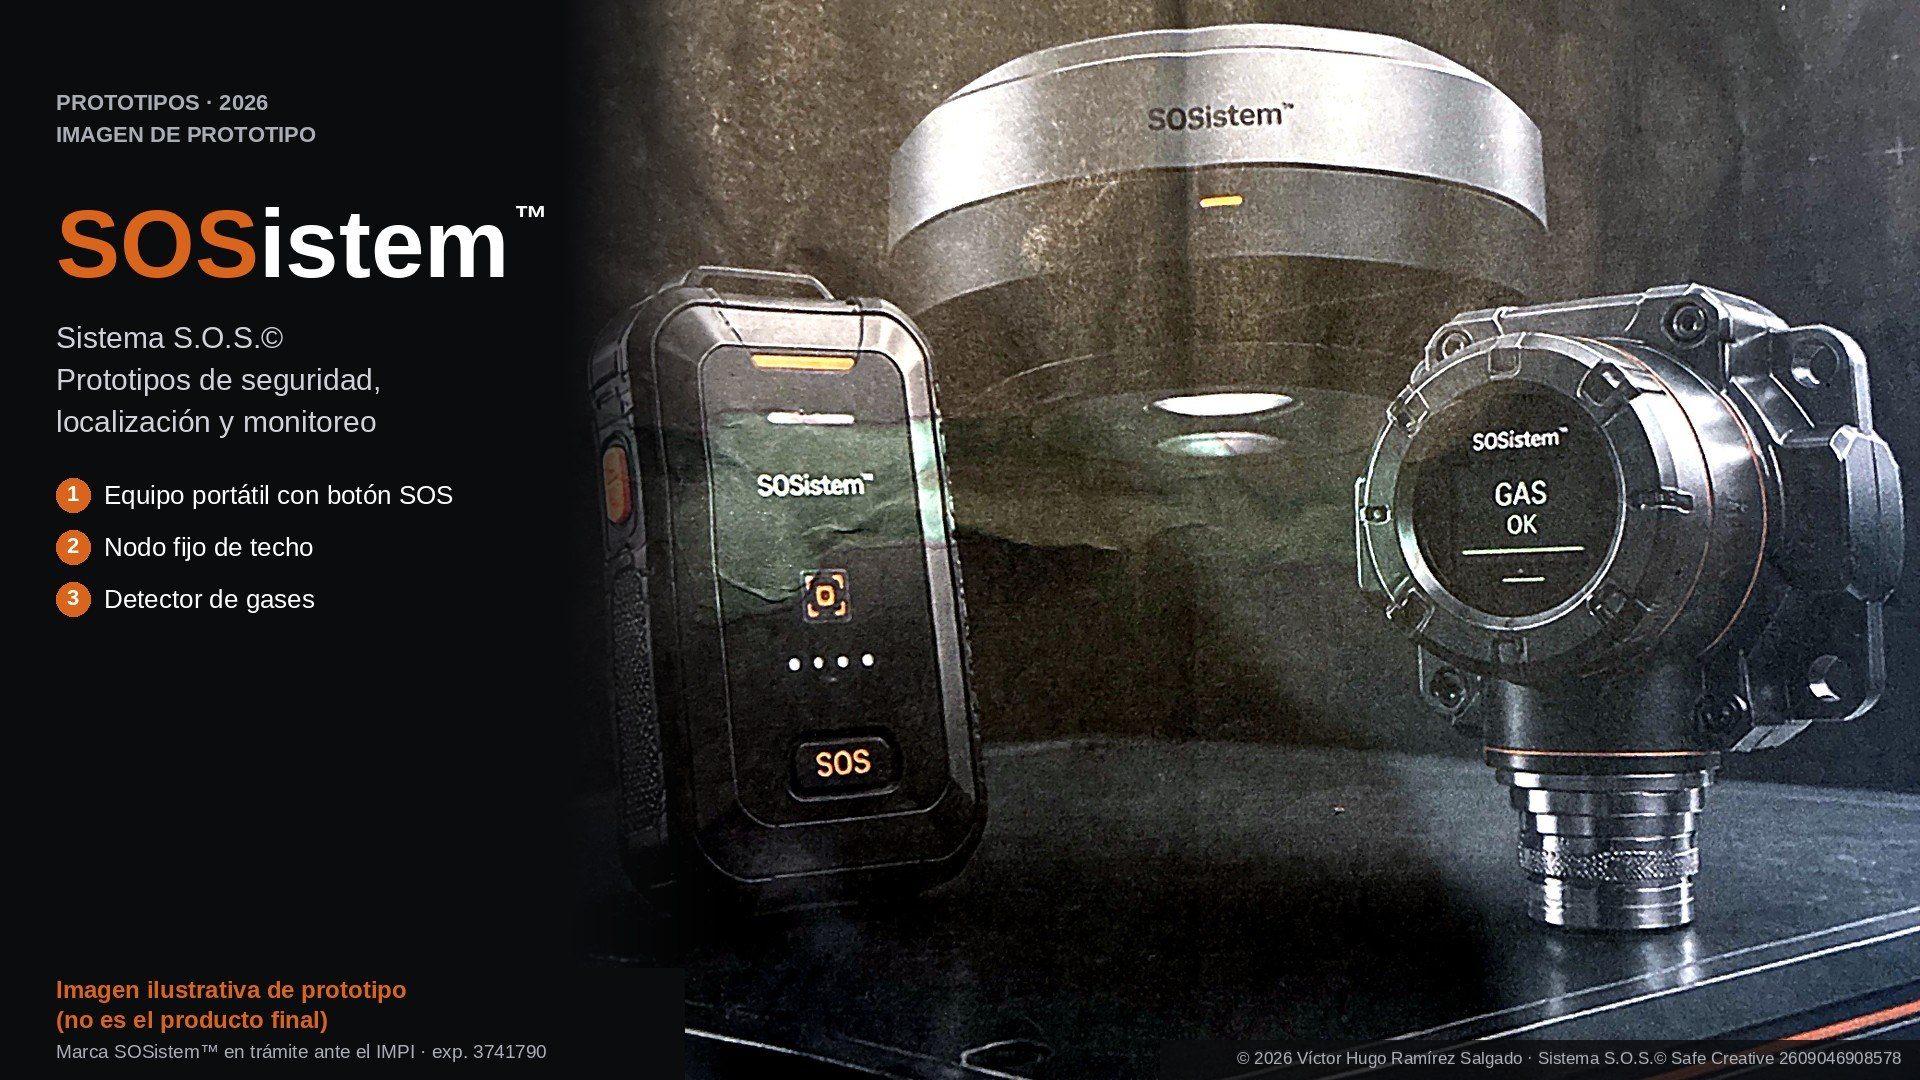
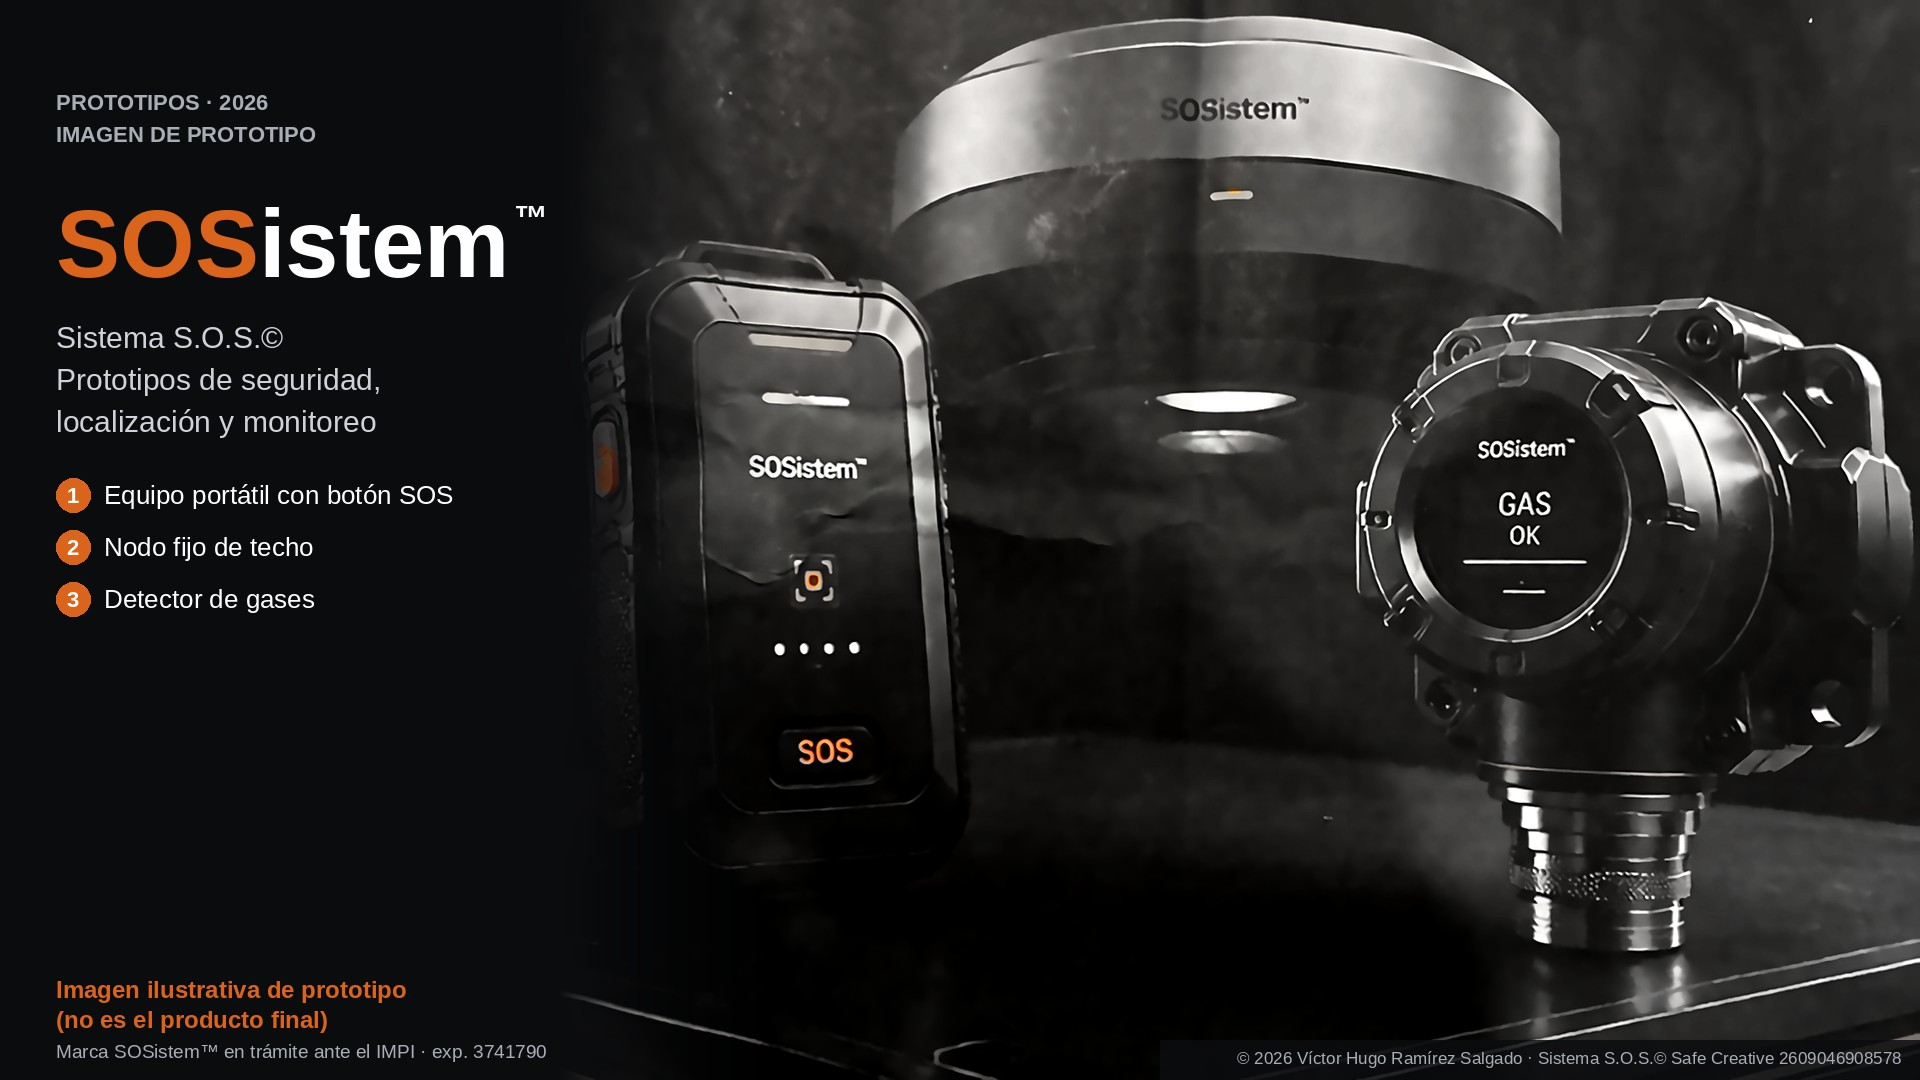
Sensor SOSistem™: foto mejorada (enderezada, sin textura de papel, negros limpios y acentos naranja); la anterior queda como v1
Asistencia-IA

diff --git a/obras.js b/obras.js
@@ -78,7 +78,7 @@ const LOGO={'ContenedorEns©':'cont','Arsa Bodegas©':'arsa','Intertopía©':'in
 const RAIZ=(document.currentScript&&document.currentScript.src.includes('/propuesta/'))?'../':'';
 P.forEach(p=>{const l=LOGO[p[1]];if(l)I['logo-'+l]=`<span class="logo-c"><img class="logo-obra" src="${RAIZ}logos/${l}.svg" alt="Logotipo de ${p[1]}" loading="lazy"><sup>${p[1].includes('™')?'™':'©'}</sup></span>`,p[3]='logo-'+l});
 // Imagen real de lo que se ve en cada obra (fotos de Arsa Bodegas©, capturas de las herramientas y figuras de SOSistem™)
-const FOTO={'ContenedorEns©':['contenedorens.jpg','Contenedor marítimo abierto',1],'Arsa Bodegas©':['arsa.jpg','Hilera de mini bodegas en contenedores, El Sauzal',1],'Trazabilidad de contenedores©':['trazabilidad.svg','Mapa: un contenedor sale de Ensenada por mar a Long Beach y regresa por la frontera; cada salida resta 1 y cada entrada suma 1 al país'],'Intertopía©':['intertopia-concepto.jpg','Intertopía: definición propuesta a la Real Academia Española'],'1ntertopía©':['1ntertopia-valor.jpg','Gráfica del valor intertópico'],'Econotopía©':['econotopia.svg','Desarrollo del Cubo con la familia de obras'],'Cubo 33©':['cubo33.jpg','Cara del Cubo A–Z de 26 × 26: letras en los bordes y números en las casillas'],'Cubo de Aprendizaje©':['aprende.svg','Cubo de Aprendizaje: aprende, consulta, imprime y archivos en 22 idiomas'],'Código Cúbico©':['codigo.jpg','Mensaje convertido en Código Cúbico'],'Mensajero del Cubo':['mensajero.jpg','Mensajero del Cubo: enviar y recibir'],'Cubo Interior©':['interior.svg','Desarrollo interior del Cubo'],'SOSistem™':['sosistem.jpg','SOSistem™: cada segundo cuenta. Industria, espacios confinados, familias y sanitarios'],'Sensor SOSistem™':['sensor-prototipos-foto.jpg','Imagen ilustrativa de prototipo: equipo portátil con botón SOS, nodo fijo de techo y detector de gases SOSistem™. Marca SOSistem™ en trámite ante el IMPI, expediente 3741790']};
+const FOTO={'ContenedorEns©':['contenedorens.jpg','Contenedor marítimo abierto',1],'Arsa Bodegas©':['arsa.jpg','Hilera de mini bodegas en contenedores, El Sauzal',1],'Trazabilidad de contenedores©':['trazabilidad.svg','Mapa: un contenedor sale de Ensenada por mar a Long Beach y regresa por la frontera; cada salida resta 1 y cada entrada suma 1 al país'],'Intertopía©':['intertopia-concepto.jpg','Intertopía: definición propuesta a la Real Academia Española'],'1ntertopía©':['1ntertopia-valor.jpg','Gráfica del valor intertópico'],'Econotopía©':['econotopia.svg','Desarrollo del Cubo con la familia de obras'],'Cubo 33©':['cubo33.jpg','Cara del Cubo A–Z de 26 × 26: letras en los bordes y números en las casillas'],'Cubo de Aprendizaje©':['aprende.svg','Cubo de Aprendizaje: aprende, consulta, imprime y archivos en 22 idiomas'],'Código Cúbico©':['codigo.jpg','Mensaje convertido en Código Cúbico'],'Mensajero del Cubo':['mensajero.jpg','Mensajero del Cubo: enviar y recibir'],'Cubo Interior©':['interior.svg','Desarrollo interior del Cubo'],'SOSistem™':['sosistem.jpg','SOSistem™: cada segundo cuenta. Industria, espacios confinados, familias y sanitarios'],'Sensor SOSistem™':['sensor-prototipos-foto.jpg?v=2','Imagen ilustrativa de prototipo: equipo portátil con botón SOS, nodo fijo de techo y detector de gases SOSistem™. Marca SOSistem™ en trámite ante el IMPI, expediente 3741790']};
 const fotoObra=(n,cls)=>{const f=FOTO[n];return f?`<figure class="${cls||'foto-obra'}${f[2]?' cubre':''}"><img src="${RAIZ}fotos/${f[0]}" alt="${f[1]}" loading="lazy"></figure>`:''};
 
 // 1ntertopía© como obra propia, separada de Intertopía©

diff --git a/index.html b/index.html
@@ -150,7 +150,7 @@
 </footer>
 
 
-<script src="obras.js?v=2026-11-15z"></script>
+<script src="obras.js?v=2026-11-15za"></script>
 <script src="lector.js?v=2026-11-15q"></script>
 <script>
 const R=[["Intertopía©", "2602144563892", "feb 2026"], ["1ntertopía©", "2606096034080", "jun 2026"], ["Sistema S.O.S.©", "2609046908578", "sep 2026"], ["ContenedorEns© (nombre y logo)", "2609046908752", "sep 2026"], ["Arsa Bodegas© (nombre y logo)", "2609046908806", "sep 2026"], ["Econotopía©", "2610077261709", "oct 2026"], ["CuboPY©", "2610097275281", "oct 2026"], ["Código Cúbico© · Código de comunicación del Cubo (33)©", "2610097276721", "oct 2026"], ["Cubo Interior©", "2610097277049", "oct 2026"], ["Teclado Cubo© · El Cubo de la Comunicación Econotopía (memoria descriptiva y código fuente)", "2610097277155", "9 oct 2026"], ["Econotopía Segura© · El Cubo de la Comunicación, memoria técnica y descriptiva", "2610097277377", "9 oct 2026"], ["Lector Cúbico© · Econotopía Segura, lector del Código Cúbico con cámara", "2610097277568", "9 oct 2026"], ["Sistema del Código de Comunicación del Cubo (33)© · codificada y representación gráfica del Cubo", "2610257441013", "25 oct 2026"], ["Cubo Morse©", "2610257441754", "25 oct 2026"], ["SOSistem™ · plataforma 1.0.0–3.8 (obra derivada)", "2610257442171", "25 oct 2026"], ["SOSistem™ versiones 3.9 a 6.6", "2610317507284", "31 oct 2026"], ["Econotopía© 2.0 · sistema de comunicación del Cubo", "2610317507307", "31 oct 2026"], ["Estructura y Validación mediante Código Omnigráfico© (definitivo)", "2610317507444", "31 oct 2026"], ["S.S.O.S.© expediente técnico y modelo de negocio", "2610317507475", "31 oct 2026"], ["Sensor híper inteligente SOSistem™ (documento de diseño)", "2610317507499", "31 oct 2026"], ["Registro mundial de naufragios (propuesta CIP/OMI)", "2610317507550", "31 oct 2026"], ["Regulación de contenedores de segundo uso · trazabilidad nacional (propuesta)", "2610317507741", "31 oct 2026"], ["Cartera de dominios y sitios web del autor", "2611017524083", "1 nov 2026"], ["Obra privada", "2611037540810", "3 nov 2026"], ["Plataforma SOSistem™ · cierre de la serie A (6.7 a 7.4) y serie B (7.5.0 a B.8.2.2)", "2611097590053", "9 nov 2026"], ["Juego del Cubo© y Cubo de Aprendizaje© · Juego 360 para 2 a 4 personas, tres niveles y Cubo del Idioma", "2611097590138", "9 nov 2026"], ["Obra privada", "2611097590152", "9 nov 2026"], ["Obra privada", "2611097590411", "9 nov 2026"], ["Obra privada", "2611097590442", "9 nov 2026"], ["Obra privada", "2611097590466", "9 nov 2026"], ["Hipercubo 33© · Econotopía© 3.0 · lenguaje multinumérico y multidimensional del Cubo de la Comunicación", "2611097590497", "9 nov 2026"]];

diff --git a/obra.html b/obra.html
@@ -19,7 +19,7 @@
 <article class="obra" id="obra"></article>
 <footer>© 2026 Víctor Hugo Ramírez Salgado. Todos los derechos reservados.</footer>
 </div>
-<script src="obras.js?v=2026-11-15z"></script>
+<script src="obras.js?v=2026-11-15za"></script>
 <script>
 let k=P.findIndex(p=>slugObra(p[1])===new URLSearchParams(location.search).get('id')); if(k<0)k=0;
 document.title=`${P[k][1]} · Víctor Hugo Ramírez Salgado`;
